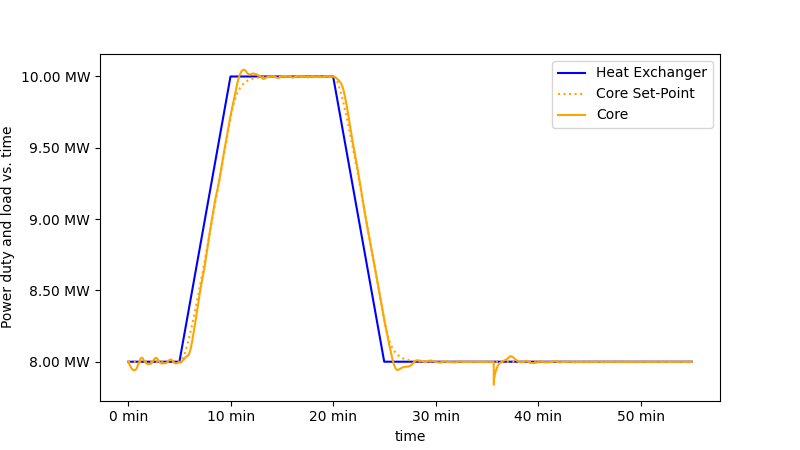
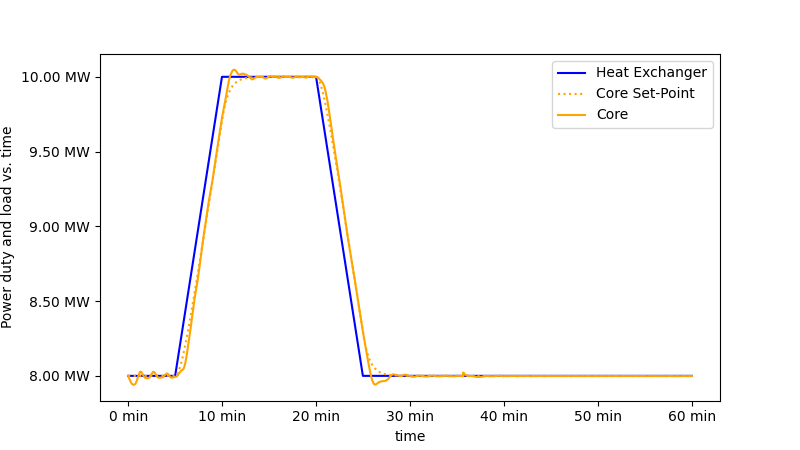
annotations phase

diff --git a/plots.py b/plots.py
@@ -8,12 +8,12 @@ import os
 import TempProfile, loop, controller
 
 def x_vs_Tx(path,t,T_x,Tmin,Tmax):
-    plt.gca().yaxis.set_major_formatter(FormatStrFormatter('%.2f (°C)'))
-    plt.gca().xaxis.set_major_formatter(FormatStrFormatter('%.0f mm'))
     ymin=Tmin
     ymax=Tmax
 
     plt.figure(figsize=(8,4.5))
+    plt.gca().yaxis.set_major_formatter(FormatStrFormatter('%.2f °C'))
+    plt.gca().xaxis.set_major_formatter(FormatStrFormatter('%.0f mm'))
     plt.ylim(ymin-1, ymax+1)
     plt.plot(loop.xcore, TempProfile.core(T_x), label='core', color = 'red')
     plt.plot(loop.xchimney, TempProfile.chimney(T_x), label='chimney', color = 'orange')
@@ -21,7 +21,7 @@ def x_vs_Tx(path,t,T_x,Tmin,Tmax):
     plt.plot(loop.xdowncomer, TempProfile.downcomer(T_x), label='downcomer', color = 'green')
     plt.xlabel('Position along Loop')
     plt.ylabel('Molten Salt Temperature')
-    plt.title('Temperature (°C) along MsNB Loop, t='+ str(int(round(t/60,0)))+ 'min')
+    plt.title('Temperature along MsNB Loop, t='+ str(int(round(t/60,0)))+ 'min')
     plt.legend(loc='best')
     plt.savefig(path)
     plt.clf()
@@ -96,11 +96,15 @@ def auto_reac_phase(Flow,Temp,Times):
     plt.scatter(Temp[timeslices],Flow[timeslices],color='darkorange',zorder=5)
 
     ts,texts = [],[]
-    for t,F,T in zip(timeslices,Flow[timeslices],Temp[timeslices]):
+    txtcoords = [(440,-432),(455,-438),(465,-460),(447,-460),(431,-450),(442,-452)]
+    print(timeslices)
+    for t,F,T,coord in zip(timeslices,Flow[timeslices],Temp[timeslices],txtcoords):
         text = f'  {t//60} min  '
         if text not in texts: 
             texts.append(text)
+            print(text)
             ts.append(plt.text(T,F,text))
+            #plt.annotate(text,(T,F),xytext=coord,arrowprops={'arrowstyle':'->','color':'darkorange'})
 
     plt.tight_layout()
     xavoid = np.concatenate((Temp,np.linspace(max,min,num=100)))
@@ -134,11 +138,13 @@ def contr_reac_phase(Flow,Temp,Control,Times):
     plt.scatter(Passive[timeslices],Control[timeslices],color='darkorange',zorder=5)
 
     ts,texts = [],[]
-    for t,P,C in zip(timeslices,Passive[timeslices],Control[timeslices]):
+    txtcoords = [(3,0),(1,5),(-2,9),(-8,0),(-1,-6),(-9,4)]
+    for t,P,C,coord in zip(timeslices,Passive[timeslices],Control[timeslices],txtcoords):
         text = f'  {t//60} min  '
         if text not in texts: 
             texts.append(text)
             ts.append(plt.text(P,C,text))
+            #plt.annotate(text,(P,C),xytext=coord,arrowprops={'arrowstyle':'->','color':'darkorange'})
         
 
     plt.tight_layout()

diff --git a/simulation.py b/simulation.py
@@ -38,17 +38,19 @@ plots.x_vs_Tx("img/animateTx_t/t-0.png",0.0,T_x,T_cold,T_hot)
 Q0 is calculated above, Q1 is the power after the first power change, Q2 is the power after the second power change. tlen is the total time in seconds of the simulation (3600sec = 1hr). t01 is the time over which the first power change occurs (ramp function ~ use t01 = 0 for step response). t1 is the time in seconds for which the reactor is held at Q1. t12 is the time in seconds over which the second power change occurs. t2 is calculated and is the time between the end of the second power change and the end of the simulation
 '''
 
-Q1,Q2 = 10000,8000
-#Q1 = Q2 = 10000
+
+
+Q1,Q2 = 10000,Q0
+#Q1 = Q2 = 8000
 #Q1,Q2 = Q0,Q0
 
-t0,t01,t1,t12,t2 = 300,300,600,300,1800
+t0,t01,t1,t12,t2 = 300,300,600,300,2100
 times = (0,t0,t01,t1,t12,t2)
 tlen= t0+t01+t1+t12+t2
 
 print('set up HEX transient')
 t=np.arange(0,tlen+1,params.dt)
-Q00 = Q0**np.ones(t0)
+Q00 = Q0*np.ones(t0)
 Q01 = np.linspace(Q0,Q1,num=t01)
 Q11 = Q1*np.ones(t1)
 Q12 = np.linspace(Q1,Q2,num=t12)
@@ -127,7 +129,7 @@ print('plotting temperature profiles')
 Tmin = np.min(np.array(T_x_t))
 Tmax = np.max(np.array(T_x_t))
 
-#exit()
+exit()
 
 for step, T_x in tqdm(zip(t[1:],T_x_t),total=len(T_x_t)):
     if step*params.dt%60 ==0:
@@ -135,7 +137,7 @@ for step, T_x in tqdm(zip(t[1:],T_x_t),total=len(T_x_t)):
         plots.x_vs_Tx(path, step, T_x, Tmin, Tmax)
 plots.gif('img/animateTx_t')
 
-exit()#remove if you want to print local mins/maxes
+#exit()#remove if you want to print local mins/maxes
 
 maximums = argrelextrema(np.array(Qcore_t),np.greater)
 minimums = argrelextrema(np.array(Qcore_t),np.less)
